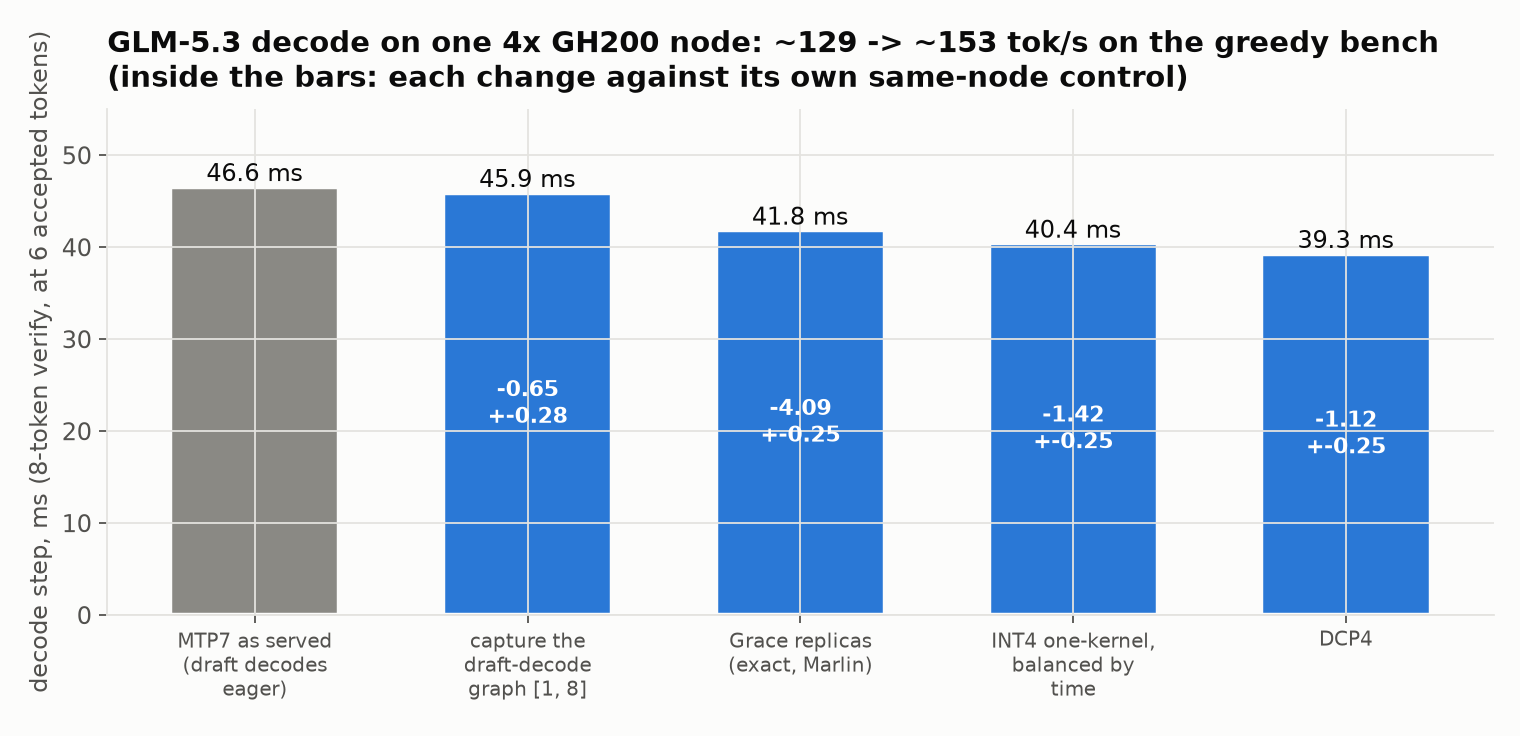
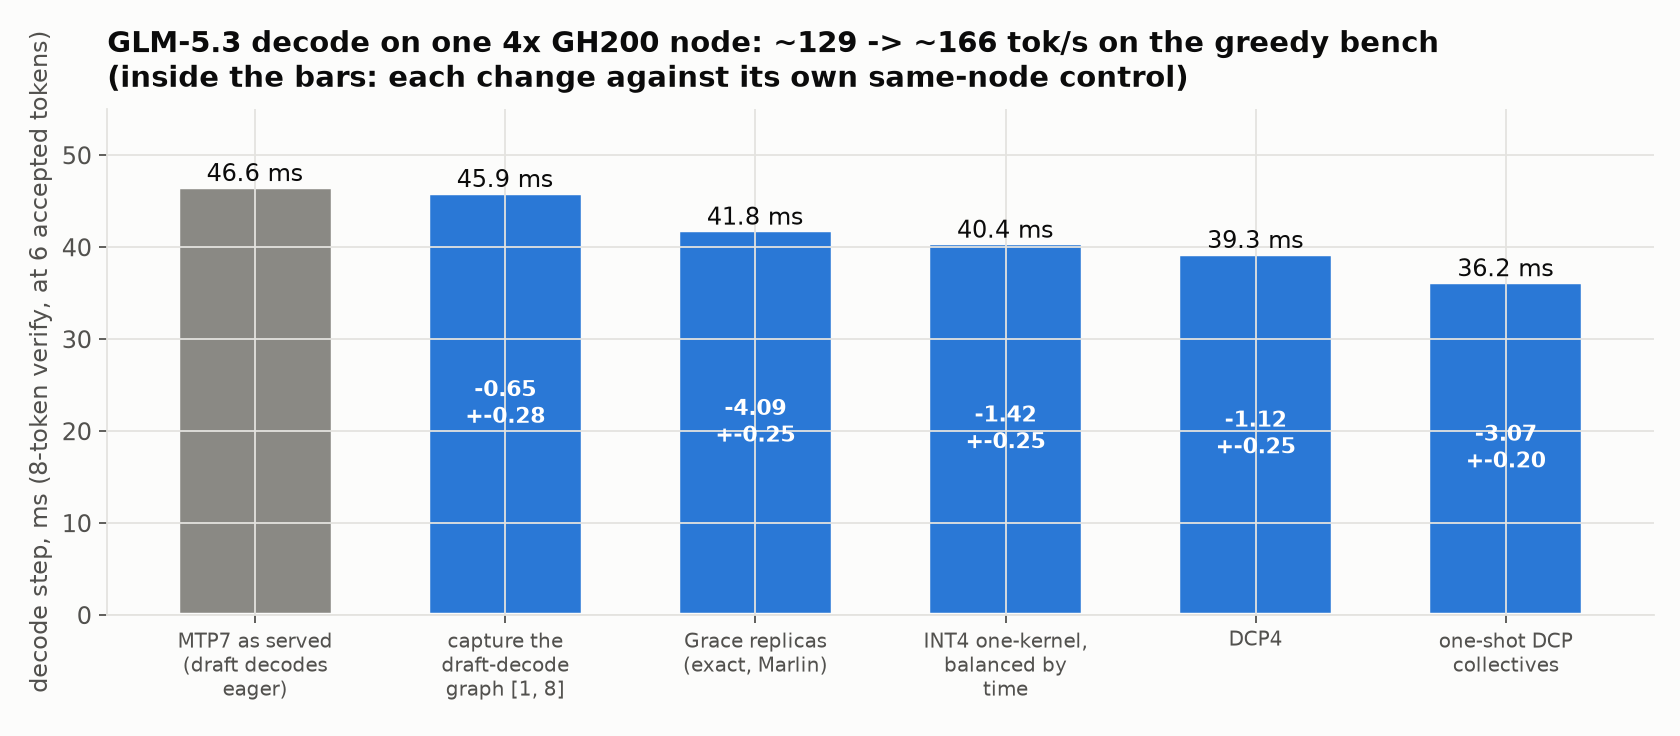
GLM-5.3: one-shot DCP collectives (-3.1 ms/step), updated ladder and breakdown
Claude-Session: https://claude.ai/code/session_01X8XHKpqJUjqVckdTFDdrvK

diff --git a/glm/README.md b/glm/README.md
@@ -9,7 +9,7 @@ what it took. It gets updated as work lands.
 | GLM-5.3, c=1, MTP7, 400K | decode step* | tok/s* |
 | --- | ---: | ---: |
 | where this round started | 46.6 ms | ~129 |
-| now | **39.3 ms** | **~153** |
+| now | **36.2 ms** | **~166** |
 
 \*On a greedy bench at a matched 6 accepted tokens per step (see
 [Measuring it](#measuring-it-acceptance-gets-in-the-way)). Real Claude-Code-style
@@ -106,8 +106,17 @@ parallelism (DCP4) each GPU keeps a quarter of it. Two things improve:
   queries are gathered across GPUs, so the kernel sees 64 real heads.
 
 The catch is three small collectives per layer (gather queries, gather softmax
-sums, scatter outputs), each ~7-12 µs. They cost ~2.3 ms per step and eat most of
-the gain: **-1.1 ms net.** Making those cheaper is next.
+sums, scatter outputs), each ~7-12 µs through NCCL. They cost ~2.3 ms per step and
+ate most of the gain: **-1.1 ms net** at first.
+
+vLLM already has a fast path for small all-reduces: each GPU reads the others'
+buffers directly over NVLink, between two cheap barriers, in one kernel. The same
+trick works for a gather (copy instead of add) and a reduce-scatter (add only your
+own slice), reusing that path's shared buffers and CUDA-graph bookkeeping. A query
+gather dropped from 13.8 to 6.7 µs, and end to end the step got **3.1 ms faster**,
+more than the collectives' own kernel time: NCCL was also leaving gaps between
+kernels that are now gone. (vLLM's all-to-all variant of the combine measured
+within noise; NCCL's symmetric-memory kernels broke CUDA graph capture here.)
 
 ## 5. The drafter was running uncaptured
 
@@ -139,15 +148,18 @@ So every comparison is a fit at matched acceptance:
 
 ![step breakdown](figs/glm-step-breakdown.png)
 
-The MoE is down from 21.6 to 14.7 ms and the all-reduces, which are mostly GPUs
-waiting on each other, from 11.8 to 3.3 ms (profiled, which inflates things; the
-unprofiled step is ~36 ms at this acceptance). What's left, roughly in order:
+The two captures happened to accept very different numbers of draft tokens (2.3
+vs 6.6 per step), and a step whose drafts are mostly accepted is the slower kind
+(see above), so the lower bar is the harder case and still comes in at 39.9 ms
+against 57.2 (profiled; the profiler adds a few ms). The all-reduces, which are
+mostly GPUs waiting on each other, fell from 11.8 to 3.6 ms, and the idle gaps
+from 5.5 to 2.3. What's left, roughly in order:
 - **the MoE itself** is now mostly the cold experts' C2C reads plus the hot tier;
 - **dense GEMMs** at 8 tokens run at 40-78% of the HBM read floor, ~1.5 ms to gain:
 
   ![GEMM efficiency](figs/glm-gemm.png)
 
-- **DCP's collectives**, ~2.3 ms;
+- **DCP's collectives**, now ~1.6 ms;
 - **the drafter**, ~3.8 ms; its biggest piece is reading the 155K-token output
   layer seven times, which is already at 93% of bandwidth;
 - the acceptance-dependent cost above, which comes with the text rather than
@@ -155,12 +167,9 @@ unprofiled step is ~36 ms at this acceptance). What's left, roughly in order:
 
 ## Being worked on
 
-- Cheaper DCP collectives. vLLM's all-to-all combine (2 collectives per layer
-  instead of 3) measured -0.2 ms, within noise; NCCL's symmetric-memory kernels
-  break CUDA graph capture on this stack. Next is a one-shot gather and scatter
-  over the same shared buffers vLLM's custom all-reduce already uses.
-- A bf16 kernel for the 8-token dense GEMMs, reusing the one-kernel MoE's
-  weight-streaming engine.
+- A bf16 kernel for the 8-token dense GEMMs. The production kernels take ~5.8 ms
+  per step against a ~3 ms read floor. A first weight-streaming version is
+  correct but slower than cuBLAS; it's being profiled.
 
 ## Accuracy
 
